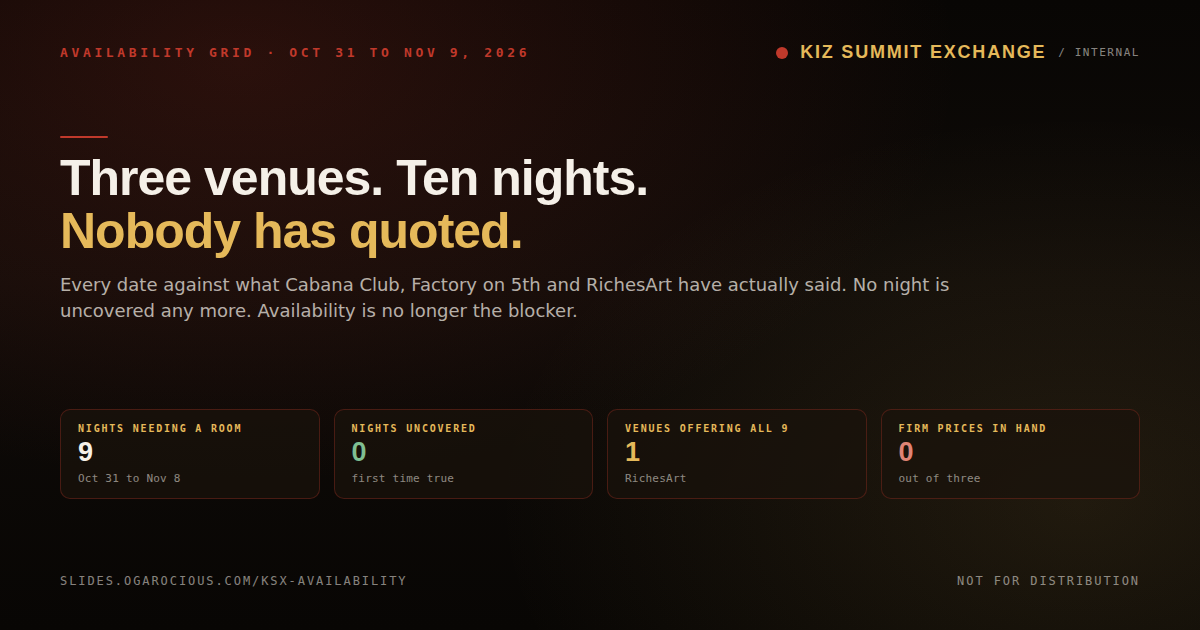
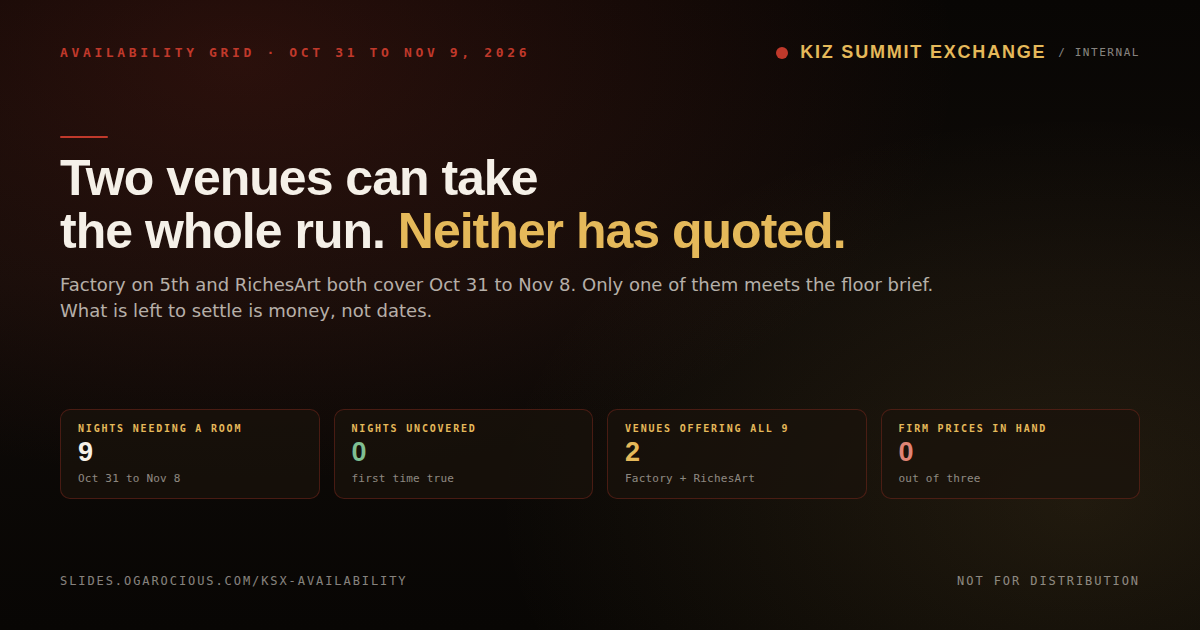
Update KSX availability deck to rev 2
Refreshes `slides/ksx-availability` with new Factory on 5th confirmations and bumps the deck to rev 2. The content now reflects that both Factory and RichesArt can cover all nine nights, updates per-date availability/status notes, and reframes the decision around pricing and floor-fit tradeoffs instead of date coverage. It also updates the update log/source notes and regenerates OG card copy and image to match the new narrative.

Changed region(s): [[0.0308, 0.2413, 0.8017, 0.5127], [0.5242, 0.754, 0.6167, 0.7841], [0.5242, 0.6937, 0.555, 0.7238]]

diff --git a/slides/ksx-availability/index.html b/slides/ksx-availability/index.html
@@ -673,7 +673,7 @@
     <span class="sep md-only">·</span>
     <span class="lg-only">updated <span data-inject="updated">2026-09-06</span></span>
     <span class="sep lg-only">·</span>
-    <span class="lg-only">rev <span data-inject="rev">1</span></span>
+    <span class="lg-only">rev <span data-inject="rev">2</span></span>
     <span class="sep lg-only">·</span>
     <span class="lg-only"><span class="kbd">↑</span><span class="kbd">↓</span> nav</span>
     <button class="menu-btn" id="menuBtn" aria-expanded="false" aria-controls="drawer">
@@ -690,7 +690,7 @@
   </div>
   <div class="nav-foot">
     <div class="foot-brand">Kiz Summit Exchange</div>
-    Availability grid · rev <span data-inject="rev">1</span>
+    Availability grid · rev <span data-inject="rev">2</span>
     <br /><span class="text-deep">Internal · Do not distribute</span>
   </div>
 </nav>
@@ -710,14 +710,14 @@
       <span class="accent-rule"></span>
       <div class="eyebrow mb-4">KSX Availability Grid</div>
       <h1 class="h-display text-[clamp(2.4rem,5.5vw,4.4rem)] mb-6">
-        Three venues.<br />
-        Ten nights.<br />
+        Two venues.<br />
+        Nine nights each.<br />
         Nobody has quoted.
       </h1>
       <p class="text-body text-lg md:text-xl max-w-3xl leading-relaxed">
         Every date in the run against what Cabana Club, Factory on 5th and RichesArt have
-        actually said. For the first time in this search, no night is uncovered. Also for the
-        first time, the thing blocking a decision is not availability.
+        actually said. Two venues now cover the whole run, and the one that meets the floor
+        brief is among them. What is left to settle is money, not dates.
       </p>
 
       <div class="mt-10 grid grid-cols-2 md:grid-cols-4 gap-4 max-w-4xl">
@@ -733,8 +733,8 @@
         </div>
         <div class="stat-tile">
           <div class="label">Venues offering all nine</div>
-          <div class="value gold">1</div>
-          <div class="sub">RichesArt</div>
+          <div class="value gold">2</div>
+          <div class="sub">Factory and RichesArt</div>
         </div>
         <div class="stat-tile">
           <div class="label">Firm prices in hand</div>
@@ -789,7 +789,7 @@
                 <th scope="col">Night</th>
                 <th scope="col">The ask</th>
                 <th scope="col">Cabana Club<span class="who">Jana Wester · 4 Sept</span></th>
-                <th scope="col">Factory on 5th<span class="who">Kara · handwritten</span></th>
+                <th scope="col">Factory on 5th<span class="who">Kara · 6 Sept, text</span></th>
                 <th scope="col">RichesArt<span class="who">Daniela · 4 Sept</span></th>
                 <th scope="col">Options</th>
               </tr>
@@ -809,27 +809,27 @@
                 <td class="cell-date"><span class="d-num">Nov 1</span><span class="d-day">Sun</span></td>
                 <td data-lab="The ask"><span class="ask">7:00pm to <span class="end">11:00pm</span><span class="heads">4.0 hrs · up to 125</span></span></td>
                 <td data-lab="Cabana"><span class="st st-go"><span class="dot"></span>Available</span></td>
-                <td data-lab="Factory"><span class="st st-void"><span class="dot"></span>Not answered</span></td>
+                <td data-lab="Factory"><span class="st st-go"><span class="dot"></span>Available</span></td>
                 <td data-lab="RichesArt"><span class="st st-go"><span class="dot"></span>Available</span></td>
-                <td data-lab="Options"><span class="cov"><i class="on"></i><i class="on"></i><i></i><b>2</b></span></td>
+                <td data-lab="Options"><span class="cov"><i class="on"></i><i class="on"></i><i class="on"></i><b>3</b></span></td>
               </tr>
 
               <tr>
                 <td class="cell-date"><span class="d-num">Nov 2</span><span class="d-day">Mon</span></td>
                 <td data-lab="The ask"><span class="ask">7:00pm to <span class="end">12:00am</span><span class="heads">5.0 hrs · about 55</span></span></td>
                 <td data-lab="Cabana"><span class="st st-go"><span class="dot"></span>Available</span></td>
-                <td data-lab="Factory"><span class="st st-void"><span class="dot"></span>Not answered</span></td>
+                <td data-lab="Factory"><span class="st st-go"><span class="dot"></span>Available</span></td>
                 <td data-lab="RichesArt"><span class="st st-go"><span class="dot"></span>Available</span></td>
-                <td data-lab="Options"><span class="cov"><i class="on"></i><i class="on"></i><i></i><b>2</b></span></td>
+                <td data-lab="Options"><span class="cov"><i class="on"></i><i class="on"></i><i class="on"></i><b>3</b></span></td>
               </tr>
 
               <tr>
                 <td class="cell-date"><span class="d-num">Nov 3</span><span class="d-day">Tue</span></td>
                 <td data-lab="The ask"><span class="ask">7:00pm to <span class="end">12:00am</span><span class="heads">5.0 hrs · about 55</span></span></td>
                 <td data-lab="Cabana"><span class="st st-go"><span class="dot"></span>Available</span></td>
-                <td data-lab="Factory"><span class="st st-hold"><span class="dot"></span>Conditional</span><span class="st-note">Only if the Tuesday session moves to Monday</span></td>
+                <td data-lab="Factory"><span class="st st-go"><span class="dot"></span>Available</span><span class="st-note">She is cancelling the figure drawing class</span></td>
                 <td data-lab="RichesArt"><span class="st st-go"><span class="dot"></span>Available</span></td>
-                <td data-lab="Options"><span class="cov"><i class="on"></i><i class="on"></i><i class="maybe"></i><b>2+1</b></span></td>
+                <td data-lab="Options"><span class="cov"><i class="on"></i><i class="on"></i><i class="on"></i><b>3</b></span></td>
               </tr>
 
               <tr>
@@ -845,9 +845,9 @@
                 <td class="cell-date"><span class="d-num">Nov 5</span><span class="d-day">Thu</span></td>
                 <td data-lab="The ask"><span class="ask">6:30pm to <span class="end">11:00pm</span><span class="heads">4.5 hrs · about 55</span></span></td>
                 <td data-lab="Cabana"><span class="st st-go"><span class="dot"></span>Available</span></td>
-                <td data-lab="Factory"><span class="st st-stop"><span class="dot"></span>Booked</span></td>
+                <td data-lab="Factory"><span class="st st-go"><span class="dot"></span>Available</span><span class="st-note">Freed from a prior booking</span></td>
                 <td data-lab="RichesArt"><span class="st st-go"><span class="dot"></span>Available</span></td>
-                <td data-lab="Options"><span class="cov"><i class="on"></i><i class="on"></i><i></i><b>2</b></span></td>
+                <td data-lab="Options"><span class="cov"><i class="on"></i><i class="on"></i><i class="on"></i><b>3</b></span></td>
               </tr>
 
               <tr class="is-weekend">
@@ -918,28 +918,29 @@
 
         <div class="readout">
           <span class="tag tag-hold">The real question</span>
-          <h3>The only venue that can take the whole run may be too small</h3>
-          <p>RichesArt is the single room that could hold all nine nights. Its main floor measures
-          about <strong>1,050 sq ft</strong> off the floor plan, against a brief of 1,700 to 2,000
-          sq ft of usable open floor. Those are the same venue. That tension is the decision, not
-          a detail.</p>
+          <h3>RichesArt just lost the argument that was carrying it</h3>
+          <p>Its one unique claim was that it alone could take the entire run, and that claim was
+          carrying its size problem. Factory now matches it on coverage and beats it on floor:
+          <strong>about 1,700 sq ft against about 1,050</strong>. Factory is the only one of the
+          three that meets the <span class="font-mono text-[0.85em]">venue-brief.md</span> bar.</p>
         </div>
 
         <div class="readout">
           <span class="tag tag-hold">Where to push</span>
-          <h3>Nov 6 and Nov 8 are the only genuinely contested nights</h3>
-          <p>All three venues are open on both, so those are the two dates where quotes actually
-          compete against each other. <strong>Oct 31 joins them</strong> if Daniela's conditional
-          turns into a yes, which would make Halloween the most competitive night of the run.</p>
+          <h3>Six of nine nights are open at all three</h3>
+          <p>Nov 1, 2, 3, 5, 6 and 8 have every venue available, so quotes compete across most of
+          the run. Only <strong>Nov 4 and Nov 7</strong> are down to two, both because Cabana does
+          not offer them. Oct 31 makes seven if Daniela's conditional turns into a yes.</p>
         </div>
 
         <div class="readout">
           <span class="tag tag-stop">Blocking everything</span>
           <h3>Not one venue has given a price</h3>
-          <p>Cabana wants top choice dates before quoting and has not replied since 4 Sept. Factory
-          sits at $200/hr from the file, never confirmed for this booking. RichesArt's proposal,
-          built around the $7,000 figure, has not arrived.
-          <strong>Availability without pricing cannot be decided on.</strong></p>
+          <p>Cabana wants top choice dates before quoting and has not replied since 4 Sept.
+          RichesArt's proposal, built around the $7,000 figure, has not arrived. Factory's $200/hr
+          would be roughly <strong>$10,900 across the 54.5 programming hours</strong>, about $3,900
+          more than RichesArt, but that rate has never been confirmed for this booking.
+          <strong>The size advantage may be exactly what you are paying for.</strong></p>
         </div>
 
       </div>
@@ -972,7 +973,7 @@
           <strong>No reply since 4 Sept; follow up text sent 6 Sept.</strong></p>
         </div>
 
-        <div class="vcard">
+        <div class="vcard is-lead">
           <div>
             <div class="vname">Factory on 5th</div>
             <div class="vwho">Kara · East Austin</div>
@@ -982,14 +983,15 @@
             <div><dt>Floor</dt><dd>Walkthrough done</dd></div>
             <div><dt>Usable floor</dt><dd>~1,700 sq ft</dd></div>
             <div><dt>Price</dt><dd class="v-hold">$200/hr, unconfirmed</dd></div>
-            <div><dt>Nights offered</dt><dd>6 of 9</dd></div>
+            <div><dt>Nights offered</dt><dd class="v-go">9 of 9</dd></div>
           </dl>
           <p class="vnote">The 2:00am cap is set by lease and zoning and <strong>cannot flex</strong>,
-          which is fine because nothing in the run goes past it. Closest of the three to the floor
-          size the event actually needs. <strong>Nov 1 and Nov 2 were never answered.</strong></p>
+          which is fine because nothing in the run goes past it. <strong>The only one of the three
+          that meets the 1,700 to 2,000 sq ft floor brief.</strong> Kara cancelled her own class to
+          free Nov 3 and released a prior booking on Nov 5.</p>
         </div>
 
-        <div class="vcard is-lead">
+        <div class="vcard">
           <div>
             <div class="vname">RichesArt Gallery</div>
             <div class="vwho">Daniela · 2511 E 6th</div>
@@ -1002,8 +1004,8 @@
             <div><dt>Nights offered</dt><dd class="v-go">9 of 9</dd></div>
           </dl>
           <p class="vnote">The only venue in the search with <strong>no curfew at all</strong>, rates
-          rising after 1am, and only three hours of the whole run fall past 1am. Also the only one
-          that could run every night in one room. The floor plan is what put the size question on
+          rising after 1am, and only three hours of the whole run fall past 1am. Still offers all
+          nine nights, but no longer uniquely. The floor plan is what put the size question on
           the table.</p>
         </div>
 
@@ -1033,13 +1035,14 @@
           </div>
         </li>
         <li>
-          <div class="src-key">Factory on 5th<span>undated, photographed 6 Sept</span></div>
+          <div class="src-key">Factory on 5th<span>6 Sept, by text</span></div>
           <div class="src-body">
-            Kara's handwritten notes. Halloween marked available, both Saturdays called out
-            separately, Nov 5 and Nov 9 marked booked, and a note reading
-            <strong>"tues can be moved monday possibly"</strong>. Nov 1 and Nov 2 appear nowhere,
-            which is why they sit as unanswered rather than refused.
-            <span class="conf conf-mid">Second hand, unconfirmed</span>
+            Handwritten notes first, then Kara confirmed by text and improved on them:
+            <strong>Nov 1 and Nov 2 available</strong>, Nov 3 a firm yes because she is cancelling
+            her own figure drawing class, and <strong>Nov 5 freed from a prior booking</strong>.
+            Her words on the Tuesday: <em>"that one's my class so yo can do as I wish with it"</em>.
+            All nine nights now open.
+            <span class="conf conf-hi">Confirmed by the venue</span>
           </div>
         </li>
         <li>
@@ -1072,9 +1075,10 @@
         </li>
         <li>
           <div class="marker">Factory</div>
-          <div class="ask-body">Confirm the full date list, get an answer on
-          <strong>Nov 1 and Nov 2</strong>, and find out whether moving the Tuesday session to
-          Monday is real or a maybe. Text drafted, not yet sent.</div>
+          <div class="ask-body">Dates are settled, all nine nights. What is not settled is the
+          rate. <strong>$200/hr has never been confirmed for this booking</strong>, and the split
+          day question on Nov 7 and Nov 8 is worth 7 hours, which is $1,400 at that rate. A real
+          number from Kara is now the highest value open item anywhere in the search.</div>
         </li>
         <li>
           <div class="marker">RichesArt</div>
@@ -1101,6 +1105,15 @@
       <h2 class="h-display text-[clamp(1.8rem,3.6vw,2.9rem)] mb-8">Update log</h2>
 
       <ul class="log-list">
+        <li>
+          <div class="log-date">6 Sept</div>
+          <div class="log-body"><strong>rev 2.</strong> Kara confirms by text that
+          <strong>Factory on 5th can take all nine nights</strong>. Nov 1 and Nov 2 available, Nov 3
+          upgraded from conditional to firm (she is cancelling her own class, so no Monday move is
+          needed and Nov 2 stays free), Nov 5 freed from a prior booking. Factory now matches
+          RichesArt on coverage and beats it on floor size, which removes the one argument that was
+          carrying RichesArt despite its 1,050 sq ft main room.</div>
+        </li>
         <li>
           <div class="log-date">6 Sept</div>
           <div class="log-body"><strong>rev 1.</strong> Deck created. Cabana Club added to

diff --git a/slides/ksx-availability/og-source.html b/slides/ksx-availability/og-source.html
@@ -103,10 +103,10 @@
 
   <div class="middle">
     <div class="accent-rule"></div>
-    <h1>Three venues. Ten nights.<br /><span class="gold">Nobody has quoted.</span></h1>
+    <h1>Two venues can take<br />the whole run. <span class="gold">Neither has quoted.</span></h1>
     <p class="sub">
-      Every date against what Cabana Club, Factory on 5th and RichesArt have actually said.
-      No night is uncovered any more. Availability is no longer the blocker.
+      Factory on 5th and RichesArt both cover Oct 31 to Nov 8. Only one of them meets the
+      floor brief. What is left to settle is money, not dates.
     </p>
   </div>
 
@@ -123,8 +123,8 @@
     </div>
     <div class="col">
       <div class="col-label">Venues offering all 9</div>
-      <div class="col-value gold">1</div>
-      <div class="col-note">RichesArt</div>
+      <div class="col-value gold">2</div>
+      <div class="col-note">Factory + RichesArt</div>
     </div>
     <div class="col">
       <div class="col-label">Firm prices in hand</div>
